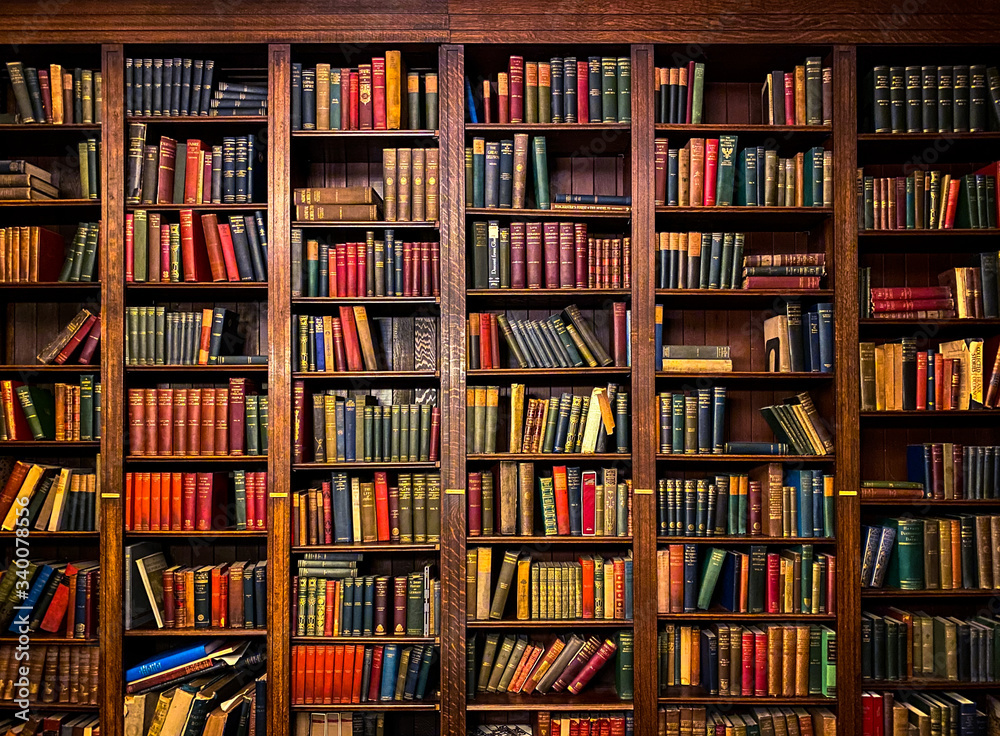
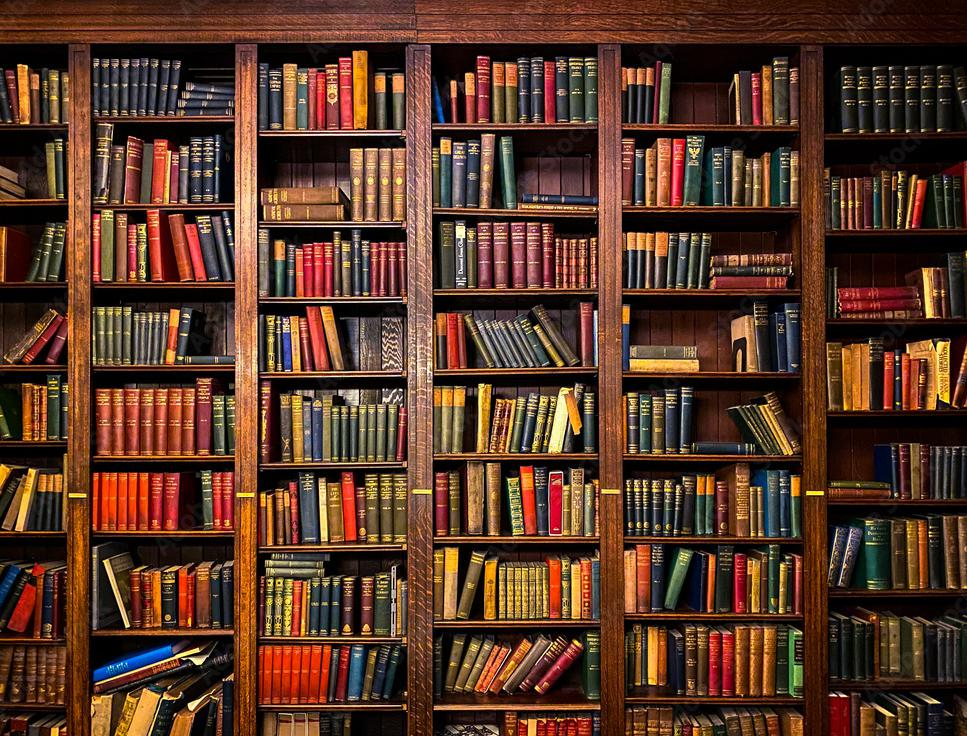
Små ting

diff --git a/books/nikolajs_yndlings.html b/books/nikolajs_yndlings.html
@@ -76,7 +76,7 @@
                     <div class="txtwrap">
                       <h6 class="heading">${book.title}</h6>
                       <p><strong>Gns. rating:</strong> ${avgRating}/10</p>
-                      <p><strong>Første rating:</strong> ${book.ratings[0]}/10</p>
+                      <p><strong>Nikolajs rating:</strong> ${book.ratings[0]}/10</p>
                     </div>
                   </article>
                 `;

diff --git a/books/Mathias_yndlings.html b/books/Mathias_yndlings.html
@@ -76,7 +76,7 @@
                     <div class="txtwrap">
                       <h6 class="heading">${book.title}</h6>
                       <p><strong>Gns. rating:</strong> ${avgRating}/10</p>
-                      <p><strong>Første rating:</strong> ${book.ratings[0]}/10</p>
+                      <p><strong>Mathias rating:</strong> ${book.ratings[3]}/10</p>
                     </div>
                   </article>
                 `;

diff --git a/books/Marius_yndlings.html b/books/Marius_yndlings.html
@@ -76,7 +76,7 @@
                     <div class="txtwrap">
                       <h6 class="heading">${book.title}</h6>
                       <p><strong>Gns. rating:</strong> ${avgRating}/10</p>
-                      <p><strong>Første rating:</strong> ${book.ratings[0]}/10</p>
+                      <p><strong>Marius rating:</strong> ${book.ratings[2]}/10</p>
                     </div>
                   </article>
                 `;

diff --git a/books/Tokes_yndlings.html b/books/Tokes_yndlings.html
@@ -76,7 +76,7 @@
                     <div class="txtwrap">
                       <h6 class="heading">${book.title}</h6>
                       <p><strong>Gns. rating:</strong> ${avgRating}/10</p>
-                      <p><strong>Første rating:</strong> ${book.ratings[0]}/10</p>
+                      <p><strong>Tokes rating:</strong> ${book.ratings[1]}/10</p>
                     </div>
                   </article>
                 `;

diff --git a/personer/Marius.html b/personer/Marius.html
@@ -83,7 +83,7 @@
                         </figure>
                         <div class="txtwrap">
                           <h6 class="heading">${book.title}</h6>
-                          <p><strong>Average Rating:</strong> ${avgRating}/5</p>
+                          <p><strong>Average Rating:</strong> ${avgRating}/10</p>
                         </div>
                       </article>
                     `;

diff --git a/personer/Mathias.html b/personer/Mathias.html
@@ -83,7 +83,7 @@
                         </figure>
                         <div class="txtwrap">
                           <h6 class="heading">${book.title}</h6>
-                          <p><strong>Average Rating:</strong> ${avgRating}/5</p>
+                          <p><strong>Average Rating:</strong> ${avgRating}/10</p>
                         </div>
                       </article>
                     `;

diff --git a/personer/Nikolaj.html b/personer/Nikolaj.html
@@ -82,7 +82,7 @@
                         </figure>
                         <div class="txtwrap">
                           <h6 class="heading">${book.title}</h6>
-                          <p><strong>Average Rating:</strong> ${avgRating}/5</p>
+                          <p><strong>Average Rating:</strong> ${avgRating}/10</p>
                         </div>
                       </article>
                     `;

diff --git a/personer/Toke.html b/personer/Toke.html
@@ -83,7 +83,7 @@
                         </figure>
                         <div class="txtwrap">
                           <h6 class="heading">${book.title}</h6>
-                          <p><strong>Average Rating:</strong> ${avgRating}/5</p>
+                          <p><strong>Average Rating:</strong> ${avgRating}/10</p>
                         </div>
                       </article>
                     `;

diff --git a/crop_picture.py b/crop_picture.py
@@ -1,0 +1,17 @@
+from PIL import Image
+# Load the new image
+new_image_path = "images/demo/backgrounds/shelf_superold.jpeg"
+new_image = Image.open(new_image_path)
+
+# Define the crop box to remove the left part with the text
+new_width, new_height = new_image.size
+new_crop_box = (new_width // 30, 0, new_width, new_height)
+
+# Crop the image
+new_cropped_image = new_image.crop(new_crop_box)
+
+# Save the cropped image
+new_cropped_image_path = "images/demo/backgrounds/shelf.jpeg"
+new_cropped_image.save(new_cropped_image_path)
+
+new_cropped_image_path
